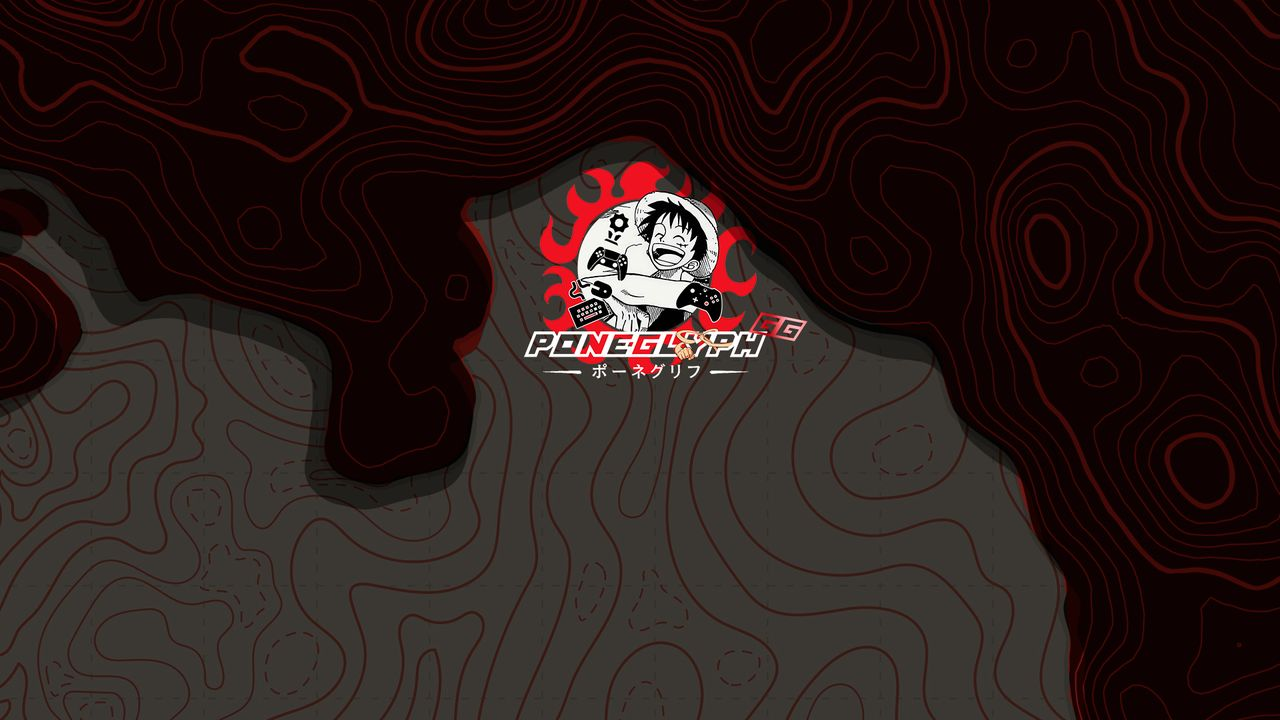
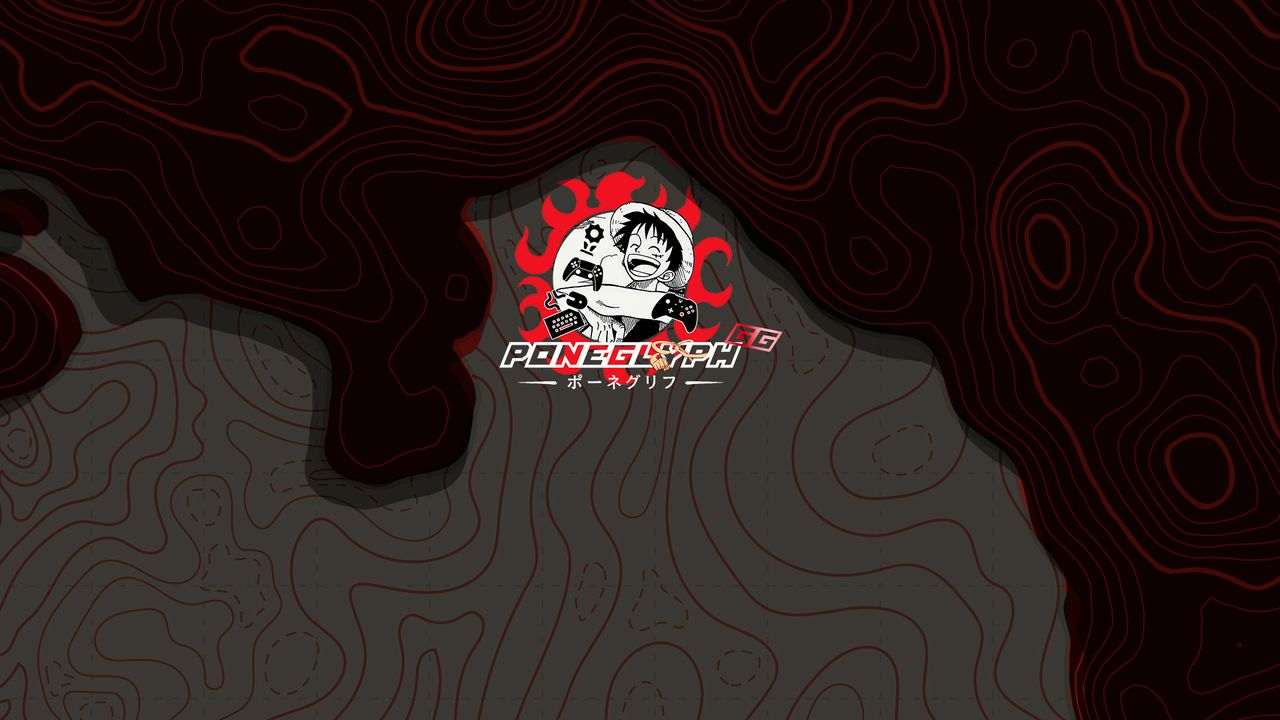
Login: arte nova, mais espaço entre o emblema e a caixa, caixa menor e translúcida
- Arte de fundo atualizada (emblema com centro a 39% e base a 53,9% da altura).
- Respiro proporcional entre o emblema e a caixa (4% da altura, de 1,5 a 3rem).
- Celular e tablet em pé: a arte ocupa os 72% de cima e some num degradê; o
  emblema fica menor e mais alto e a caixa cabe na tela sem rolar.
- Caixa mais estreita (21rem) e translúcida (preto 45% com desfoque leve);
  em telas baixas (até 900 px) ela fica mais compacta.

Claude-Session: https://claude.ai/code/session_01UHscg94xeNChqxMTqLZrPD

Changed region(s): [[0.375, 0.2139, 0.625, 0.55]]

diff --git a/src/app/(auth)/_components/auth-form.tsx b/src/app/(auth)/_components/auth-form.tsx
@@ -14,9 +14,9 @@ export function AuthForm({ mode, next, notice, steamLogin, inviteRef }: Props) {
   const otherHref = `${isSignup ? "/login" : "/signup"}?next=${encodeURIComponent(next)}`;
 
   return (
-    <section className="w-full max-w-sm rounded-2xl border border-brand-500/25 bg-black/70 p-5 shadow-2xl shadow-brand-950/60 backdrop-blur-md sm:p-6">
-      <h1 className="text-2xl font-bold text-zinc-50">{isSignup ? "Criar conta" : "Entrar"}</h1>
-      <p className="mt-1 text-sm text-zinc-400">
+    <section className="w-full max-w-[21rem] rounded-2xl border border-white/10 bg-black/45 p-5 shadow-2xl shadow-black/50 ring-1 ring-brand-500/15 backdrop-blur-[6px]">
+      <h1 className="text-xl font-bold text-zinc-50">{isSignup ? "Criar conta" : "Entrar"}</h1>
+      <p className="mt-1 text-sm text-zinc-400 [@media(max-height:900px)]:hidden">
         {isSignup ? "Registre, avalie e acompanhe seus jogos." : "Bem-vindo de volta ao Poneglyph.gg."}
       </p>
 
@@ -32,19 +32,19 @@ export function AuthForm({ mode, next, notice, steamLogin, inviteRef }: Props) {
               {/* Link comum (não <Link>): a rota redireciona para o site da Steam */}
               <a
                 href={inviteRef ? `/api/steam/login?ref=${encodeURIComponent(inviteRef)}` : "/api/steam/login"}
-                className="mt-5 flex w-full items-center justify-center gap-2 rounded-lg bg-[#1b2838] px-3.5 py-2.5 text-sm font-medium text-white ring-1 ring-white/10 transition hover:bg-[#2a475e]"
+                className="mt-5 flex w-full items-center justify-center gap-2 rounded-lg bg-[#1b2838] [@media(max-height:900px)]:mt-3 px-3.5 py-2.5 text-sm font-medium text-white ring-1 ring-white/10 transition hover:bg-[#2a475e]"
               >
                 <SteamIcon />
                 {isSignup ? "Criar conta com Steam" : "Entrar com Steam"}
               </a>
-              <div className="mt-4 flex items-center gap-3 text-xs text-zinc-500">
+              <div className="mt-4 flex items-center gap-3 text-xs text-zinc-500 [@media(max-height:900px)]:mt-3">
                 <span className="h-px flex-1 bg-brand-900/50" />
                 ou com e-mail
                 <span className="h-px flex-1 bg-brand-900/50" />
               </div>
             </>
           )}
-          <form action={action} className={`${steamLogin ? "mt-4" : "mt-6"} space-y-4`}>
+          <form action={action} className={`${steamLogin ? "mt-4" : "mt-6"} space-y-4 [@media(max-height:900px)]:mt-3 [@media(max-height:900px)]:space-y-3`}>
             <input type="hidden" name="next" value={next} />
             {inviteRef && <input type="hidden" name="ref" value={inviteRef} />}
 
@@ -95,7 +95,7 @@ export function AuthForm({ mode, next, notice, steamLogin, inviteRef }: Props) {
         </>
       )}
 
-      <p className="mt-5 text-center text-sm text-zinc-400">
+      <p className="mt-5 text-center text-sm text-zinc-400 [@media(max-height:900px)]:mt-3">
         {isSignup ? "Já tem conta? " : "Ainda não tem conta? "}
         <Link href={otherHref} className="font-medium text-brand-400 hover:underline">
           {isSignup ? "Entrar" : "Criar conta"}
@@ -128,7 +128,7 @@ export function Field({ label, name, aside, ...rest }: { label: string; name: st
         name={name}
         required
         spellCheck={false}
-        className="w-full rounded-lg border border-zinc-700 bg-zinc-900 px-3 py-2 text-sm text-zinc-100 placeholder:text-zinc-600 focus:border-brand-500 focus:outline-none focus:ring-2 focus:ring-brand-500/30"
+        className="w-full rounded-lg border border-white/15 bg-black/40 px-3 py-2 text-sm text-zinc-100 placeholder:text-zinc-600 focus:border-brand-500 focus:outline-none focus:ring-2 focus:ring-brand-500/30"
         {...rest}
       />
     </div>

diff --git a/src/components/brand-stage.tsx b/src/components/brand-stage.tsx
@@ -1,17 +1,17 @@
 import type { ReactNode } from "react";
 
 /*
- * Tela com a arte de login (public/brand/login.jpg, 1920×1080).
+ * Tela com a arte de login (public/brand/login.jpg, 1920×1080). As medidas ficam em
+ * globals.css (.brand-stage-*):
  *
- * O emblema da arte fica centralizado na horizontal, com o centro a 37% da altura
- * e meia altura de 160 px (de 1080). Com `object-fit: cover` + `object-position:
- * 50% 37%`, esse ponto cai sempre a 37% da altura da tela, em qualquer formato.
- * A imagem exibida tem altura max(100vh, 56,25vw), então o emblema termina em
- * 37vh + max(14,8vh, 8,33vw): o conteúdo começa logo abaixo, centralizado com ele.
+ * - O emblema está centralizado na horizontal, com o centro a 39% da altura da arte
+ *   (y = 420 de 1080) e a base a 53,9% (y = 582).
+ * - Tela deitada: a arte cobre tudo (`cover` + `object-position: 50% 39%`), então o
+ *   emblema fica sempre a 39% da altura da tela e termina em 39vh + max(15vh, 8,44vw).
+ * - Tela em pé (celular): a arte ocupa só os 72% de cima e some num degradê, para o
+ *   emblema ficar menor e mais alto e sobrar espaço para a caixa.
+ * Trocou a arte? Meça de novo o centro e a base do emblema e ajuste os números.
  */
-const EMBLEM_CENTER_Y = "37%";
-const CONTENT_TOP = "calc(37dvh + max(14.8dvh, 8.33vw) + 1rem)";
-
 export function BrandStage({ children }: { children: ReactNode }) {
   return (
     <main className="relative min-h-dvh bg-[#0c0101]">
@@ -23,12 +23,9 @@ export function BrandStage({ children }: { children: ReactNode }) {
         alt=""
         aria-hidden
         fetchPriority="high"
-        className="pointer-events-none fixed inset-0 size-full select-none object-cover"
-        style={{ objectPosition: `50% ${EMBLEM_CENTER_Y}` }}
+        className="brand-stage-art pointer-events-none select-none"
       />
-      <div className="relative flex flex-col items-center px-4 pb-10" style={{ paddingTop: CONTENT_TOP }}>
-        {children}
-      </div>
+      <div className="brand-stage-content relative flex flex-col items-center px-4 pb-10">{children}</div>
     </main>
   );
 }

diff --git a/src/app/globals.css b/src/app/globals.css
@@ -84,3 +84,26 @@ body {
   background: rgb(212 27 38 / 0.45);
   color: #fff;
 }
+
+/* Tela de login com a arte (src/components/brand-stage.tsx explica as medidas) */
+.brand-stage-art {
+  position: fixed;
+  inset: 0;
+  width: 100%;
+  height: 100%;
+  object-fit: cover;
+  object-position: 50% 39%;
+}
+.brand-stage-content {
+  padding-top: calc(39dvh + max(15dvh, 8.44vw) + clamp(1.5rem, 4dvh, 3rem));
+}
+@media (max-aspect-ratio: 3/4) {
+  .brand-stage-art {
+    height: 72dvh;
+    -webkit-mask-image: linear-gradient(to bottom, #000 75%, transparent);
+    mask-image: linear-gradient(to bottom, #000 75%, transparent);
+  }
+  .brand-stage-content {
+    padding-top: calc(72dvh * 0.539 + clamp(1.25rem, 3dvh, 2rem));
+  }
+}

diff --git a/src/app/(auth)/_components/password-forms.tsx b/src/app/(auth)/_components/password-forms.tsx
@@ -53,7 +53,7 @@ export function ResetPasswordForm({ email }: { email: string | null }) {
 
 function Shell({ title, subtitle, children }: { title: string; subtitle: string; children: ReactNode }) {
   return (
-    <section className="w-full max-w-sm rounded-2xl border border-brand-500/25 bg-black/70 p-6 shadow-2xl shadow-brand-950/60 backdrop-blur-md">
+    <section className="w-full max-w-[21rem] rounded-2xl border border-white/10 bg-black/45 p-5 shadow-2xl shadow-black/50 ring-1 ring-brand-500/15 backdrop-blur-[6px]">
       <h1 className="text-2xl font-bold text-zinc-50">{title}</h1>
       <p className="mt-1 text-sm text-zinc-400">{subtitle}</p>
       {children}
